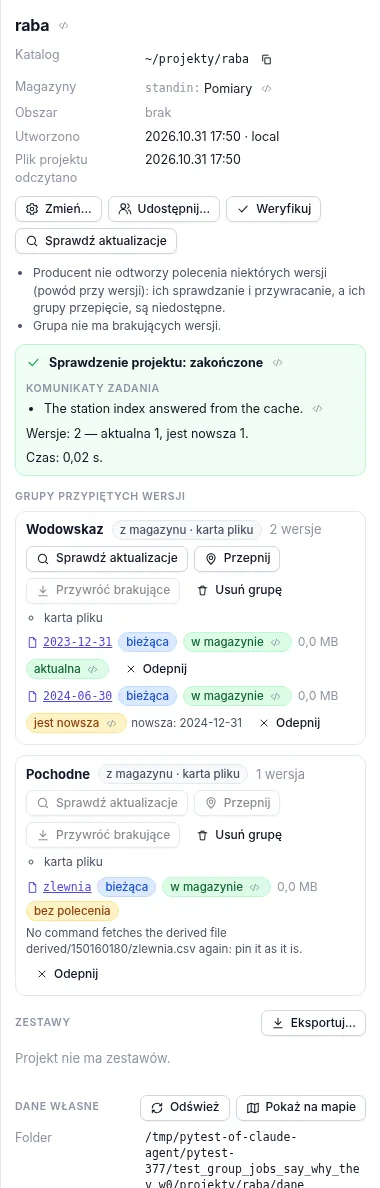
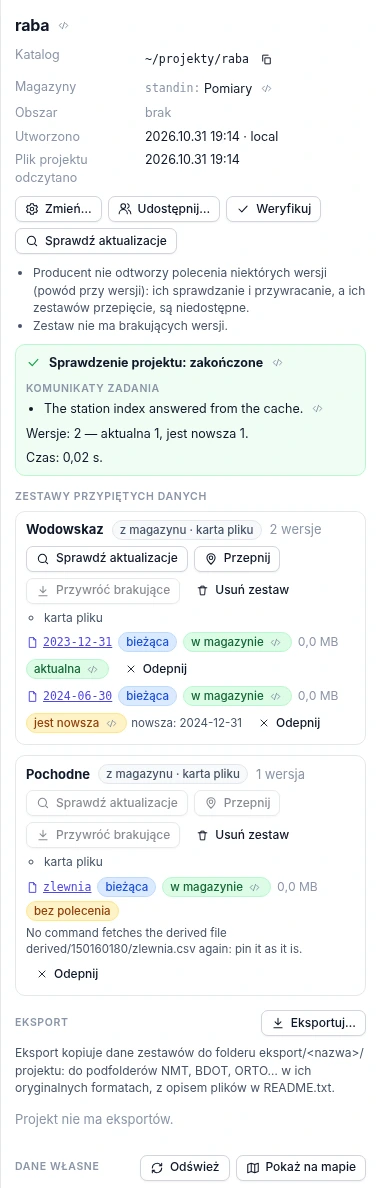
docs(projects): call a project's set ZESTAW in the usage lines and retake the card
The CLI's metavar of a project's group is ZESTAW: the projects
commands' docstring, AGENT_API and the unreleased CHANGELOG entries
still wrote GRUPA. The guide's 08-projekt.webp is retaken with
ARCHIWISTA_SCREENSHOTS, showing the sets and the "Eksport" section.

diff --git a/src/archiwista/web/guide/index.html b/src/archiwista/web/guide/index.html
@@ -152,7 +152,7 @@
   <h2>Projekt: zestawy przypiętych danych, ich stan i eksport</h2>
   <div class="g-grid g-tall">
     <a class="g-zoom" href="/static/guide/08-projekt.webp" target="_blank" rel="noopener">
-      <img class="g-shot" src="/static/guide/08-projekt.webp" width="380" height="1188" alt="Karta projektu raba: katalog, magazyn, przyciski Zmień…, Udostępnij…, Weryfikuj i Sprawdź aktualizacje, powody wyłączonych działań, wynik sprawdzenia aktualizacji, zestaw Wodowskaz z wersjami oznaczonymi jako aktualna i jest nowsza oraz zestaw Pochodne z wersją bez polecenia i powodem producenta.">
+      <img class="g-shot" src="/static/guide/08-projekt.webp" width="380" height="1188" alt="Karta projektu raba: katalog, magazyn, przyciski Zmień…, Udostępnij…, Weryfikuj i Sprawdź aktualizacje, powody wyłączonych działań, wynik sprawdzenia aktualizacji, zestaw Wodowskaz z wersjami oznaczonymi jako aktualna i jest nowsza, zestaw Pochodne z wersją bez polecenia i powodem producenta oraz sekcja Eksport z przyciskiem Eksportuj… i opisem folderów eksportu.">
     </a>
     <div class="g-column">
       <div class="g-grid g-cols-2 g-cards">

diff --git a/src/archiwista/commands/projects.py b/src/archiwista/commands/projects.py
@@ -8,11 +8,11 @@ relative directory is taken from the current one), ``project-edit PROJEKT
 (``PATCH /projects/{project}``), ``project-area PROJEKT (--area-id OBSZAR |
 --clear)`` its area (``PUT /projects/{project}/area``) and ``project-store
 PROJEKT PRODUCENT --store MAGAZYN`` the store of a producer's pins (``PUT
-/projects/{project}/stores/{producer}``), ``project-pin PROJEKT GRUPA
+/projects/{project}/stores/{producer}``), ``project-pin PROJEKT ZESTAW
 (--version MAGAZYN:WERSJA … | --query JSON) [--from ŹRÓDŁO] [--add]`` pins
 versions the store holds into a new local group or, with ``--add``, one the
 project has (``POST /projects/{project}/groups``, ``…/groups/{group}/pins``,
-printing ``PinOutcome``) and ``project-unpin PROJEKT GRUPA [--pin
+printing ``PinOutcome``) and ``project-unpin PROJEKT ZESTAW [--pin
 PRODUCENT:WERSJA …]`` removes pins or the whole group (``POST
 …/groups/{group}/unpin``, ``DELETE …/groups/{group}``): the others print the
 project's card as the index holds it right after the change (``ProjectCard``).

diff --git a/docs/AGENT_API.md b/docs/AGENT_API.md
@@ -48,7 +48,7 @@ parameter names and codes are English; texts for people (`title`, `detail`,
 | scan of the own-data folder | `archiwista own-scan [--project PROJEKT]` | `POST /projects/{project}/scan` |
 | producers' commands: the catalog, a pasted line read into a call, a call checked without the network, the line of a call (v0.3), the call that selects a stored version again (A-ADR-049) | `archiwista commands list [--producer ID]`, `commands parse PRODUCENT LINIA`, `commands validate PRODUCENT POLECENIE --options JSON [--store MAGAZYN]`, `commands format PRODUCENT POLECENIE --options JSON [--run JSON]`, `version-command MAGAZYN WERSJA` | `GET /commands`, `POST /commands/parse`, `/commands/validate`, `/commands/format`, `GET /stores/{store}/versions/{version}/command` |
 | what the source has for an area and a product: the last report kept with its rows (labels, ranked variants, store badges), a check at the source (v0.3) | `archiwista availability show OBSZAR --product PRODUKT [--producer ID] [--store ID] [--horizontal …] [--resolution …] [--vertical-crs …]`, `availability check OBSZAR --product PRODUKT [--producer ID] [--force]` and the same options | `GET /availability`, `POST /availability` |
-| a job of a producer's calls on a configured store (all the lines of a row in one job, ADR-044), kind `check` (the plan of a run of each call without its effects) or `download` (the run of each call, with the plans of a `check` job of the same calls if named; it writes the store; optionally pinning what it leaves into a new group of a project), and the plans a `check` job kept (v0.3) | `archiwista jobs start check PRODUCENT --store MAGAZYN --call JSON [--call JSON …]`, `jobs start download PRODUCENT --store MAGAZYN --call JSON [--call JSON …] [--plan ZADANIE] [--pin PROJEKT --pin-group GRUPA]` (each `--call` a `{"command": "…", "options": {…}}`; the job in the foreground, printed as it ended), `jobs plan ZADANIE` | `POST /jobs`, `GET /jobs/{job}/plan` |
+| a job of a producer's calls on a configured store (all the lines of a row in one job, ADR-044), kind `check` (the plan of a run of each call without its effects) or `download` (the run of each call, with the plans of a `check` job of the same calls if named; it writes the store; optionally pinning what it leaves into a new group of a project), and the plans a `check` job kept (v0.3) | `archiwista jobs start check PRODUCENT --store MAGAZYN --call JSON [--call JSON …]`, `jobs start download PRODUCENT --store MAGAZYN --call JSON [--call JSON …] [--plan ZADANIE] [--pin PROJEKT --pin-group ZESTAW]` (each `--call` a `{"command": "…", "options": {…}}`; the job in the foreground, printed as it ended), `jobs plan ZADANIE` | `POST /jobs`, `GET /jobs/{job}/plan` |
 | a file itself: a version's, an own file's or one file of its set, a snapshot's (v0.4) | — (HTTP only) | `GET /stores/{store}/versions/{version}/file`, `GET /projects/{project}/files/{file_id}/file`, `GET …/files/{file_id}/snapshots/{label}/file` (each also `HEAD`, a set's file by `?member=`) |
 | the action log: a page newest first, an export of every entry the filters select (v0.4, administrators) | `archiwista log list [filters] [--limit N] [--cursor ID]`, `log export [filters] [--format jsonl\|csv] [--output FILE]` (section 10) | `GET /log`, `GET /log/export` |
 

diff --git a/docs/CHANGELOG.md b/docs/CHANGELOG.md
@@ -36,8 +36,8 @@ command-line interface may change.
   (`command_for_version(version, *, root)`) and `ActionAdapter.run(..., upgrade=)`, the
   update mode a re-pin runs in.
 - The jobs over a project's groups (A-ADR-049 decisions 11 and 12, plan P4):
-  `archiwista project-verify PROJEKT [GRUPA …]`, `project-check`, `project-repin PROJEKT
-  GRUPA` and `project-restore`, and `POST /projects/{project}/jobs` (`kind` `verify`,
+  `archiwista project-verify PROJEKT [ZESTAW …]`, `project-check`, `project-repin PROJEKT
+  ZESTAW` and `project-restore`, and `POST /projects/{project}/jobs` (`kind` `verify`,
   `check`, `repin` or `restore`, `groups` left out for every group), start the job kinds
   `project_verify` (the pinned files hashed in the store, offline: `ok`, `corrupt`,
   `missing`, `content_match` when another version of the slot holds the same content,
@@ -56,7 +56,7 @@ command-line interface may change.
   keeps each version's command in the index at once.
 - Pinning versions into a project's groups (A-ADR-049, P3): `archiwista project-pin`,
   `project-unpin`, the routes `POST /projects/{project}/groups`, `…/pins`, `…/unpin` and
-  `DELETE …/groups/{group}`, and `jobs start download … --pin PROJEKT --pin-group GRUPA`
+  `DELETE …/groups/{group}`, and `jobs start download … --pin PROJEKT --pin-group ZESTAW`
   (`POST /jobs` `pin`), which pins what a successful download leaves. In the web:
   "Dodaj do projektu…" in the catalog, the map's coverage and the file card, "Odepnij"
   and "Usuń grupę" on the project's card, and the plan window's option "Dodaj do
@@ -1065,11 +1065,11 @@ command-line interface may change.
   pinned and missing versions.
 
 - Pinning what the store holds (A-ADR-049 decisions 7 and 8, plan P3): `archiwista
-  project-pin PROJEKT GRUPA (--version MAGAZYN:WERSJA … | --query JSON) [--from …]
+  project-pin PROJEKT ZESTAW (--version MAGAZYN:WERSJA … | --query JSON) [--from …]
   [--add]` / `POST /projects/{project}/groups` and `…/groups/{group}/pins` pin named
   versions, older ones too, or the versions of a catalog query into a local group,
   offline from the index (`PinOutcome`: pinned, already pinned, skipped with
-  `missing` or `no_sha256`); `archiwista project-unpin PROJEKT GRUPA [--pin
+  `missing` or `no_sha256`); `archiwista project-unpin PROJEKT ZESTAW [--pin
   PRODUCENT:WERSJA …]` / `POST …/groups/{group}/unpin` and `DELETE
   …/groups/{group}` remove pins or a group. The first pin of a producer names the
   project's store; refused are more than 10,000 versions (`too_many_pins`), a taken
@@ -1079,7 +1079,7 @@ command-line interface may change.
 
 - A download pins what it leaves into a new project group (A-ADR-049 decision 9, plan
   P3): `POST /jobs` with `"pin": {"project", "group"}` / `archiwista jobs start
-  download … --pin PROJEKT --pin-group GRUPA` needs `project.write` of the project
+  download … --pin PROJEKT --pin-group ZESTAW` needs `project.write` of the project
   too and is refused before a job as a new group is (a taken or invalid name,
   `other_store`, `unknown_store`); a retry asks the same. When the job succeeds, its
   worker writes the group after the rescan, origin `plan` with the job's producer and
